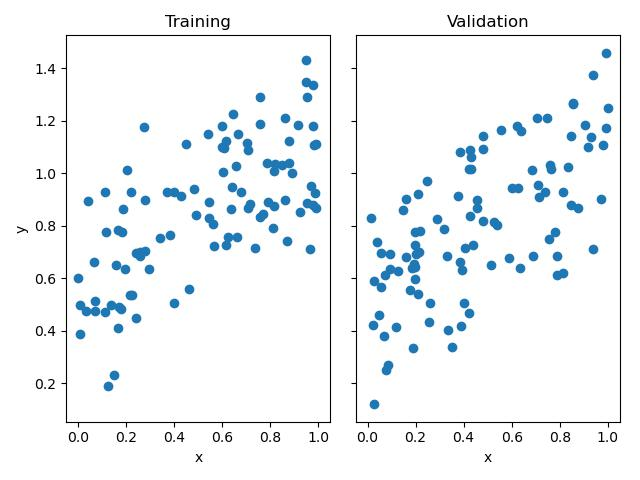
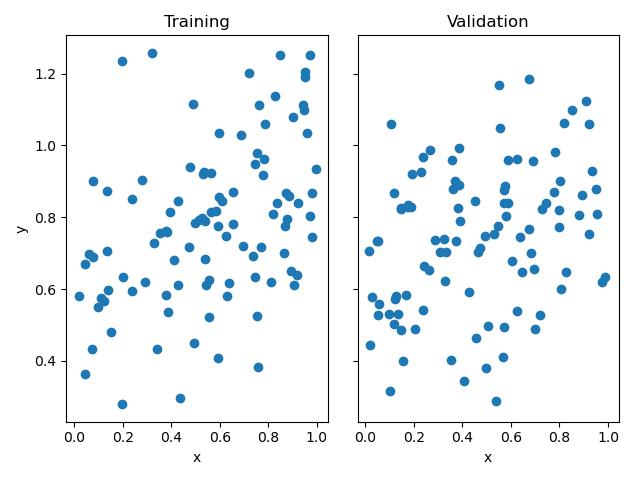
added experiments in blog 4

diff --git a/docs/posts/blog4/index.html b/docs/posts/blog4/index.html
@@ -282,9 +282,9 @@ background-size: cover;
 <span id="cb3-8"><a href="#cb3-8" aria-hidden="true" tabindex="-1"></a><span class="bu">print</span>(<span class="ss">f"The estimated weight vector is </span><span class="sc">{</span>LR<span class="sc">.</span>w<span class="sc">}</span><span class="ss">"</span>)</span></code><button title="Copy to Clipboard" class="code-copy-button"><i class="bi"></i></button></pre></div>
 </details>
 <div class="cell-output cell-output-stdout">
-<pre><code>Training score = 0.4518
-Validation score = 0.4332
-The estimated weight vector is [0.54904516 0.5650886 ]</code></pre>
+<pre><code>Training score = 0.1804
+Validation score = 0.0683
+The estimated weight vector is [0.33415811 0.59413717]</code></pre>
 </div>
 </div>
 </section>
@@ -301,7 +301,7 @@ The estimated weight vector is [0.54904516 0.5650886 ]</code></pre>
 <span id="cb5-4"><a href="#cb5-4" aria-hidden="true" tabindex="-1"></a><span class="bu">print</span>(<span class="ss">f"The estimated weight vector using gradient descent is </span><span class="sc">{</span>LR2<span class="sc">.</span>w<span class="sc">}</span><span class="ss">"</span>)</span></code><button title="Copy to Clipboard" class="code-copy-button"><i class="bi"></i></button></pre></div>
 </details>
 <div class="cell-output cell-output-stdout">
-<pre><code>The estimated weight vector using gradient descent is [0.5489693  0.56513226]</code></pre>
+<pre><code>The estimated weight vector using gradient descent is [0.33419235 0.59411669]</code></pre>
 </div>
 </div>
 <div class="cell" data-execution_count="5">
@@ -321,29 +321,67 @@ The estimated weight vector is [0.54904516 0.5650886 ]</code></pre>
 <div class="cell" data-execution_count="6">
 <details open="">
 <summary>Code</summary>
-<div class="sourceCode cell-code" id="cb8"><pre class="sourceCode python code-with-copy"><code class="sourceCode python"><span id="cb8-1"><a href="#cb8-1" aria-hidden="true" tabindex="-1"></a>ex_n_train <span class="op">=</span> <span class="dv">100</span></span>
-<span id="cb8-2"><a href="#cb8-2" aria-hidden="true" tabindex="-1"></a>ex_n_val <span class="op">=</span> <span class="dv">100</span></span>
-<span id="cb8-3"><a href="#cb8-3" aria-hidden="true" tabindex="-1"></a>ex_p_features <span class="op">=</span> n_train <span class="op">-</span> <span class="dv">1</span></span>
-<span id="cb8-4"><a href="#cb8-4" aria-hidden="true" tabindex="-1"></a>ex_noise <span class="op">=</span> <span class="fl">0.2</span></span>
-<span id="cb8-5"><a href="#cb8-5" aria-hidden="true" tabindex="-1"></a></span>
-<span id="cb8-6"><a href="#cb8-6" aria-hidden="true" tabindex="-1"></a><span class="co"># create some data</span></span>
-<span id="cb8-7"><a href="#cb8-7" aria-hidden="true" tabindex="-1"></a>ex_X_train, ex_y_train, ex_X_val, ex_y_val <span class="op">=</span> LR_data(ex_n_train, ex_n_val, ex_p_features, ex_noise)</span>
-<span id="cb8-8"><a href="#cb8-8" aria-hidden="true" tabindex="-1"></a></span>
-<span id="cb8-9"><a href="#cb8-9" aria-hidden="true" tabindex="-1"></a><span class="co"># plot it</span></span>
-<span id="cb8-10"><a href="#cb8-10" aria-hidden="true" tabindex="-1"></a>fig, axarr <span class="op">=</span> plt.subplots(<span class="dv">1</span>, <span class="dv">2</span>, sharex <span class="op">=</span> <span class="va">True</span>, sharey <span class="op">=</span> <span class="va">True</span>)</span>
-<span id="cb8-11"><a href="#cb8-11" aria-hidden="true" tabindex="-1"></a>axarr[<span class="dv">0</span>].scatter(ex_X_train, ex_y_train)</span>
-<span id="cb8-12"><a href="#cb8-12" aria-hidden="true" tabindex="-1"></a>axarr[<span class="dv">1</span>].scatter(ex_X_val, ex_y_val)</span>
-<span id="cb8-13"><a href="#cb8-13" aria-hidden="true" tabindex="-1"></a><span class="bu">print</span>(ex_X_train.shape)</span>
-<span id="cb8-14"><a href="#cb8-14" aria-hidden="true" tabindex="-1"></a><span class="bu">print</span>(ex_y_train.shape)</span>
-<span id="cb8-15"><a href="#cb8-15" aria-hidden="true" tabindex="-1"></a>labs <span class="op">=</span> axarr[<span class="dv">0</span>].<span class="bu">set</span>(title <span class="op">=</span> <span class="st">"Training"</span>, xlabel <span class="op">=</span> <span class="st">"x"</span>, ylabel <span class="op">=</span> <span class="st">"y"</span>)</span>
-<span id="cb8-16"><a href="#cb8-16" aria-hidden="true" tabindex="-1"></a>labs <span class="op">=</span> axarr[<span class="dv">1</span>].<span class="bu">set</span>(title <span class="op">=</span> <span class="st">"Validation"</span>, xlabel <span class="op">=</span> <span class="st">"x"</span>)</span>
-<span id="cb8-17"><a href="#cb8-17" aria-hidden="true" tabindex="-1"></a>plt.tight_layout()</span></code><button title="Copy to Clipboard" class="code-copy-button"><i class="bi"></i></button></pre></div>
+<div class="sourceCode cell-code" id="cb8"><pre class="sourceCode python code-with-copy"><code class="sourceCode python"><span id="cb8-1"><a href="#cb8-1" aria-hidden="true" tabindex="-1"></a><span class="co">#increasing p_features </span></span>
+<span id="cb8-2"><a href="#cb8-2" aria-hidden="true" tabindex="-1"></a>p_features <span class="op">=</span> n_train <span class="op">-</span> <span class="dv">1</span></span>
+<span id="cb8-3"><a href="#cb8-3" aria-hidden="true" tabindex="-1"></a></span>
+<span id="cb8-4"><a href="#cb8-4" aria-hidden="true" tabindex="-1"></a><span class="cf">for</span> p <span class="kw">in</span> <span class="bu">range</span>(<span class="dv">1</span>, p_features):</span>
+<span id="cb8-5"><a href="#cb8-5" aria-hidden="true" tabindex="-1"></a>    <span class="co">#generate data</span></span>
+<span id="cb8-6"><a href="#cb8-6" aria-hidden="true" tabindex="-1"></a>    X_train, y_train, X_val, y_val <span class="op">=</span> LR_data(n_train, n_val, p, noise)</span>
+<span id="cb8-7"><a href="#cb8-7" aria-hidden="true" tabindex="-1"></a>     <span class="co">#fit data to linear regression model</span></span>
+<span id="cb8-8"><a href="#cb8-8" aria-hidden="true" tabindex="-1"></a>    LR3 <span class="op">=</span> LinearRegression()</span>
+<span id="cb8-9"><a href="#cb8-9" aria-hidden="true" tabindex="-1"></a>    LR3.fit_analytic(X_train, y_train)  </span>
+<span id="cb8-10"><a href="#cb8-10" aria-hidden="true" tabindex="-1"></a>    <span class="co">#score the model </span></span>
+<span id="cb8-11"><a href="#cb8-11" aria-hidden="true" tabindex="-1"></a>    score_train <span class="op">=</span> LR3.score(X_train, y_train)</span>
+<span id="cb8-12"><a href="#cb8-12" aria-hidden="true" tabindex="-1"></a>    score_val <span class="op">=</span> LR3.score(X_val, y_val)</span>
+<span id="cb8-13"><a href="#cb8-13" aria-hidden="true" tabindex="-1"></a>        </span>
+<span id="cb8-14"><a href="#cb8-14" aria-hidden="true" tabindex="-1"></a>    <span class="cf">if</span> p <span class="op">==</span> <span class="dv">1</span>:</span>
+<span id="cb8-15"><a href="#cb8-15" aria-hidden="true" tabindex="-1"></a>        plt.scatter(p, score_train, color <span class="op">=</span> <span class="st">"blue"</span>, label <span class="op">=</span> <span class="st">"training"</span>)</span>
+<span id="cb8-16"><a href="#cb8-16" aria-hidden="true" tabindex="-1"></a>        plt.scatter(p, score_val, color <span class="op">=</span> <span class="st">"red"</span>, label <span class="op">=</span> <span class="st">"validation"</span>) </span>
+<span id="cb8-17"><a href="#cb8-17" aria-hidden="true" tabindex="-1"></a>    <span class="cf">else</span>:</span>
+<span id="cb8-18"><a href="#cb8-18" aria-hidden="true" tabindex="-1"></a>        plt.scatter(p, score_train, color <span class="op">=</span> <span class="st">"blue"</span>)</span>
+<span id="cb8-19"><a href="#cb8-19" aria-hidden="true" tabindex="-1"></a>        plt.scatter(p, score_val, color <span class="op">=</span> <span class="st">"red"</span>) </span>
+<span id="cb8-20"><a href="#cb8-20" aria-hidden="true" tabindex="-1"></a></span>
+<span id="cb8-21"><a href="#cb8-21" aria-hidden="true" tabindex="-1"></a><span class="co">#plot</span></span>
+<span id="cb8-22"><a href="#cb8-22" aria-hidden="true" tabindex="-1"></a>labels <span class="op">=</span> plt.gca().<span class="bu">set</span>(xlabel <span class="op">=</span> <span class="st">"P features"</span>, ylabel <span class="op">=</span> <span class="st">"Score"</span>)</span>
+<span id="cb8-23"><a href="#cb8-23" aria-hidden="true" tabindex="-1"></a>legend <span class="op">=</span> plt.legend(loc<span class="op">=</span><span class="st">'lower right'</span>)</span>
+<span id="cb8-24"><a href="#cb8-24" aria-hidden="true" tabindex="-1"></a>    </span></code><button title="Copy to Clipboard" class="code-copy-button"><i class="bi"></i></button></pre></div>
 </details>
-<div class="cell-output cell-output-error">
-<pre><code>ValueError: x and y must be the same size</code></pre>
-</div>
 <div class="cell-output cell-output-display">
-<p><img src="index_files/figure-html/cell-7-output-2.png" class="img-fluid"></p>
+<p><img src="index_files/figure-html/cell-7-output-1.png" class="img-fluid"></p>
+</div>
+</div>
+</section>
+<section id="lasso-regularization" class="level1">
+<h1>LASSO Regularization</h1>
+<div class="cell" data-execution_count="7">
+<details open="">
+<summary>Code</summary>
+<div class="sourceCode cell-code" id="cb9"><pre class="sourceCode python code-with-copy"><code class="sourceCode python"><span id="cb9-1"><a href="#cb9-1" aria-hidden="true" tabindex="-1"></a><span class="im">from</span> sklearn.linear_model <span class="im">import</span> Lasso</span>
+<span id="cb9-2"><a href="#cb9-2" aria-hidden="true" tabindex="-1"></a></span>
+<span id="cb9-3"><a href="#cb9-3" aria-hidden="true" tabindex="-1"></a>p_features <span class="op">=</span> n_train <span class="op">-</span> <span class="dv">1</span></span>
+<span id="cb9-4"><a href="#cb9-4" aria-hidden="true" tabindex="-1"></a></span>
+<span id="cb9-5"><a href="#cb9-5" aria-hidden="true" tabindex="-1"></a><span class="cf">for</span> p <span class="kw">in</span> <span class="bu">range</span>(<span class="dv">1</span>, p_features):</span>
+<span id="cb9-6"><a href="#cb9-6" aria-hidden="true" tabindex="-1"></a>    <span class="co">#generate data</span></span>
+<span id="cb9-7"><a href="#cb9-7" aria-hidden="true" tabindex="-1"></a>    X_train, y_train, X_val, y_val <span class="op">=</span> LR_data(n_train, n_val, p, noise)</span>
+<span id="cb9-8"><a href="#cb9-8" aria-hidden="true" tabindex="-1"></a>    <span class="co">#fit data to LASSO</span></span>
+<span id="cb9-9"><a href="#cb9-9" aria-hidden="true" tabindex="-1"></a>    L <span class="op">=</span> Lasso(alpha <span class="op">=</span> <span class="fl">0.001</span>)</span>
+<span id="cb9-10"><a href="#cb9-10" aria-hidden="true" tabindex="-1"></a>    L.fit(X_train, y_train)  </span>
+<span id="cb9-11"><a href="#cb9-11" aria-hidden="true" tabindex="-1"></a>    <span class="co">#score the model </span></span>
+<span id="cb9-12"><a href="#cb9-12" aria-hidden="true" tabindex="-1"></a>    score_train <span class="op">=</span> L.score(X_train, y_train)</span>
+<span id="cb9-13"><a href="#cb9-13" aria-hidden="true" tabindex="-1"></a>    score_val <span class="op">=</span> L.score(X_val, y_val)</span>
+<span id="cb9-14"><a href="#cb9-14" aria-hidden="true" tabindex="-1"></a>        </span>
+<span id="cb9-15"><a href="#cb9-15" aria-hidden="true" tabindex="-1"></a>    <span class="cf">if</span> p <span class="op">==</span> <span class="dv">1</span>:</span>
+<span id="cb9-16"><a href="#cb9-16" aria-hidden="true" tabindex="-1"></a>        plt.scatter(p, score_train, color <span class="op">=</span> <span class="st">"blue"</span>, label <span class="op">=</span> <span class="st">"training"</span>)</span>
+<span id="cb9-17"><a href="#cb9-17" aria-hidden="true" tabindex="-1"></a>        plt.scatter(p, score_val, color <span class="op">=</span> <span class="st">"red"</span>, label <span class="op">=</span> <span class="st">"validation"</span>) </span>
+<span id="cb9-18"><a href="#cb9-18" aria-hidden="true" tabindex="-1"></a>    <span class="cf">else</span>:</span>
+<span id="cb9-19"><a href="#cb9-19" aria-hidden="true" tabindex="-1"></a>        plt.scatter(p, score_train, color <span class="op">=</span> <span class="st">"blue"</span>)</span>
+<span id="cb9-20"><a href="#cb9-20" aria-hidden="true" tabindex="-1"></a>        plt.scatter(p, score_val, color <span class="op">=</span> <span class="st">"red"</span>) </span>
+<span id="cb9-21"><a href="#cb9-21" aria-hidden="true" tabindex="-1"></a></span>
+<span id="cb9-22"><a href="#cb9-22" aria-hidden="true" tabindex="-1"></a>labels <span class="op">=</span> plt.gca().<span class="bu">set</span>(xlabel <span class="op">=</span> <span class="st">"P features"</span>, ylabel <span class="op">=</span> <span class="st">"Score"</span>)</span>
+<span id="cb9-23"><a href="#cb9-23" aria-hidden="true" tabindex="-1"></a>legend <span class="op">=</span> plt.legend(loc<span class="op">=</span><span class="st">'lower right'</span>)</span></code><button title="Copy to Clipboard" class="code-copy-button"><i class="bi"></i></button></pre></div>
+</details>
+<div class="cell-output cell-output-display">
+<p><img src="index_files/figure-html/cell-8-output-1.png" class="img-fluid"></p>
 </div>
 </div>
 

diff --git a/docs/index.html b/docs/index.html
@@ -199,7 +199,7 @@ Nhi Dang
 </a>
 </div>
 </div>
-<div class="quarto-post image-right" data-index="1" data-listing-date-sort="1678852800000" data-listing-file-modified-sort="1680108532674" data-listing-reading-time-sort="0.385">
+<div class="quarto-post image-right" data-index="1" data-listing-date-sort="1678852800000" data-listing-file-modified-sort="1680289230079" data-listing-reading-time-sort="0.395">
 <div class="thumbnail">
 <p><a href="./posts/blog4/index.html"> <img src="./posts/blog4/image.jpg" class="thumnail-image"> </a></p>
 </div>
